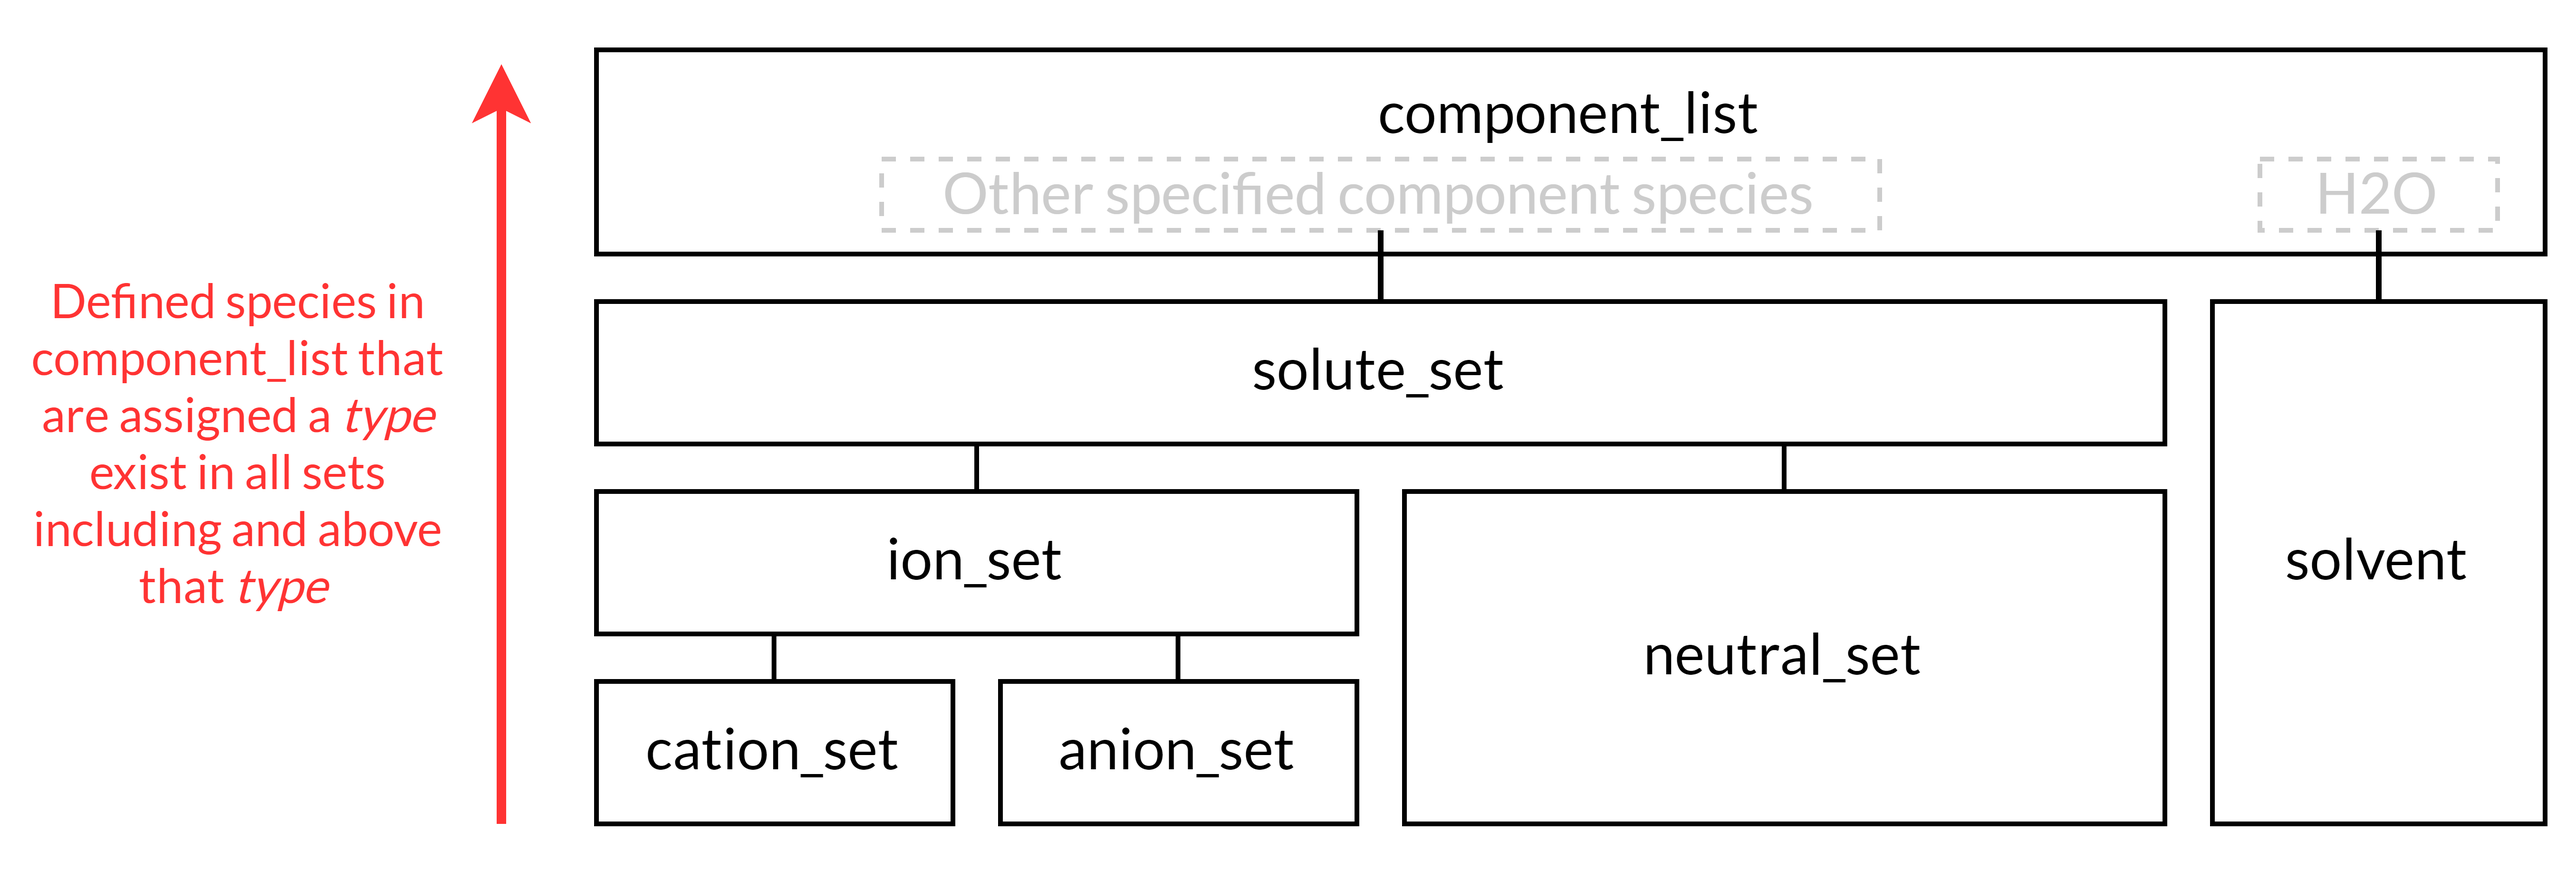
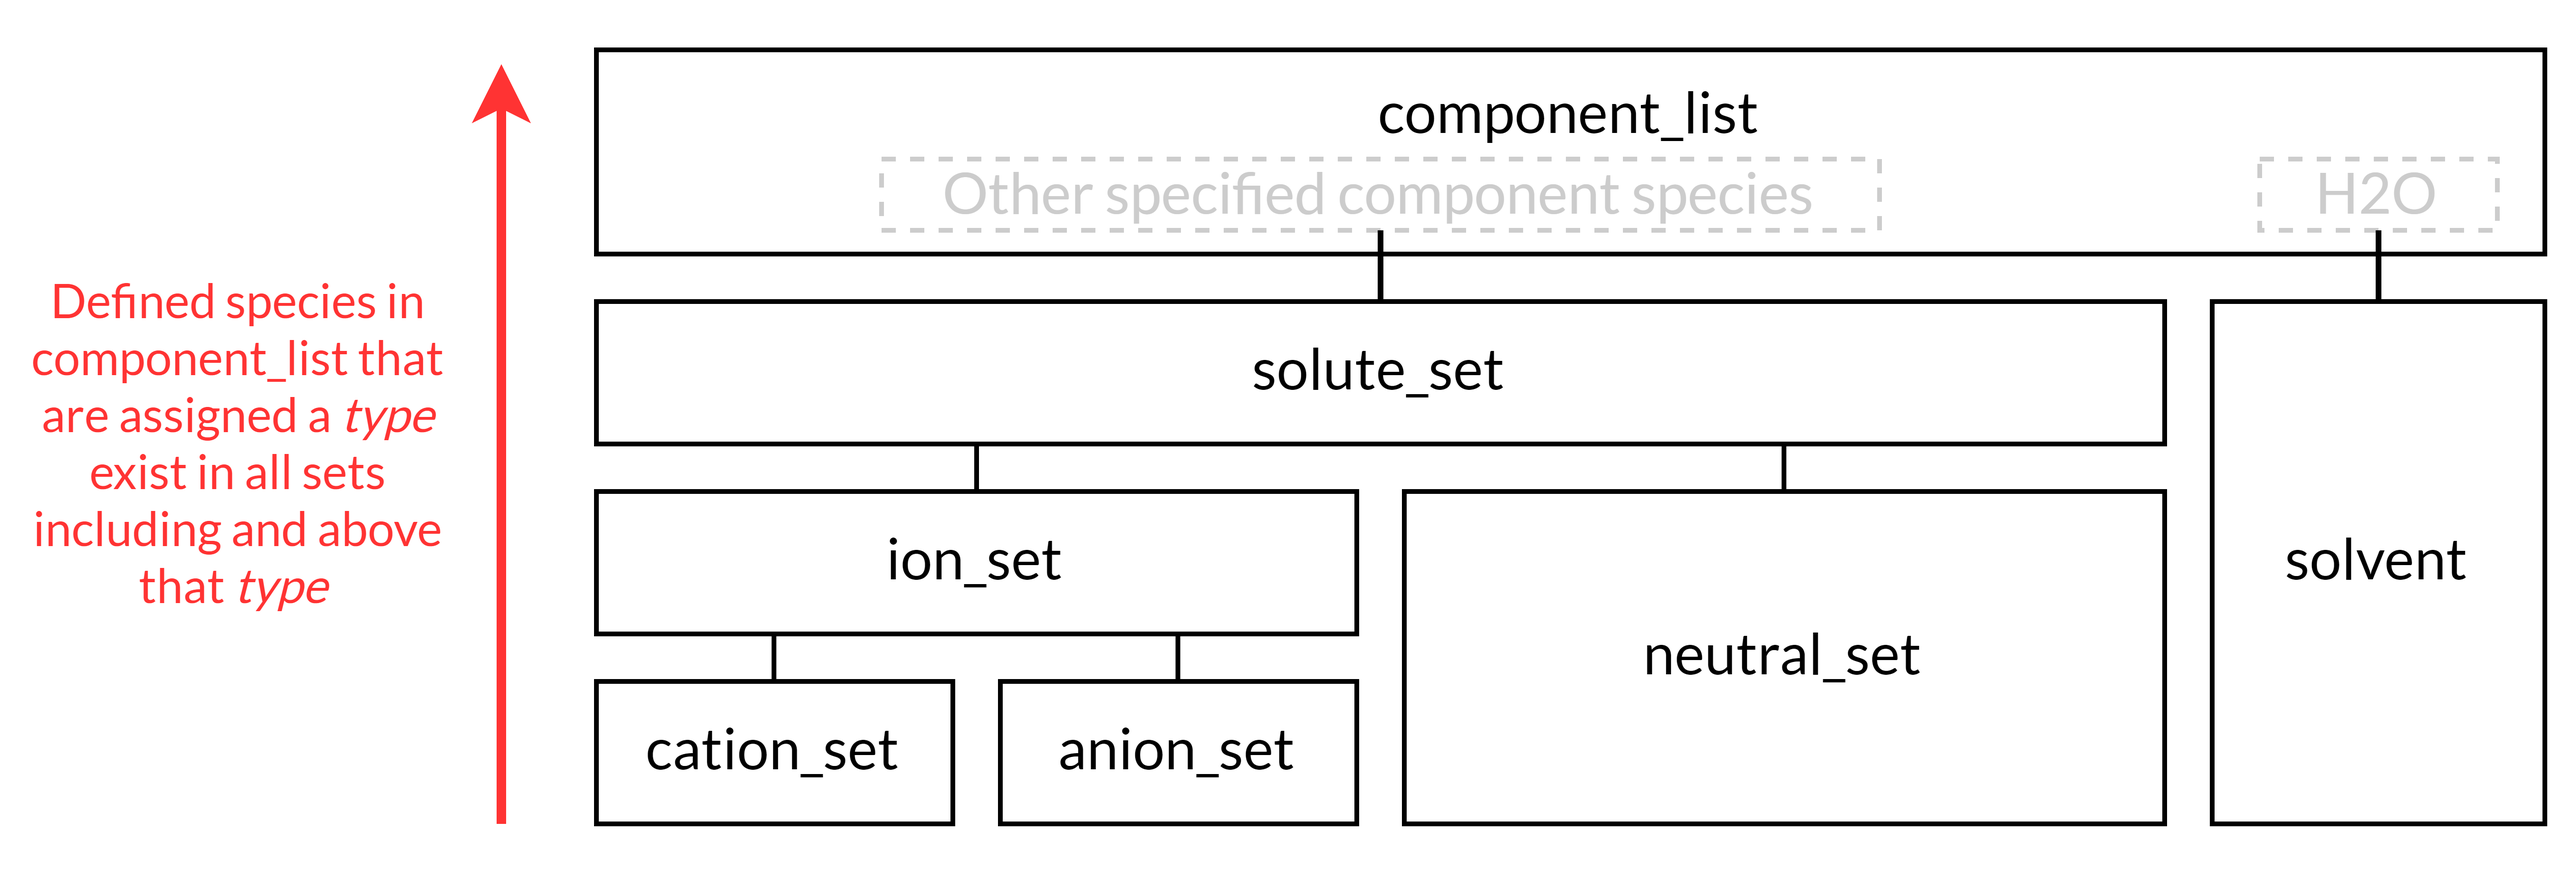
fixing figure formatting

diff --git a/docs/technical_reference/property_models/mc_aq_sol.rst b/docs/technical_reference/property_models/mc_aq_sol.rst
@@ -28,7 +28,7 @@ Sets
    :sup:`1`  component_list is provided by a necessary configuration to use this property package.
 
 .. figure:: ../../_static/unit_models/mcas_set_hierarchy.png
-    :width: 1200
+    :width: 400
     :align: center
 
     Figure 1. Hierarchy of the pyomo sets constructed in the MCAS property package. Here types are declared for the
